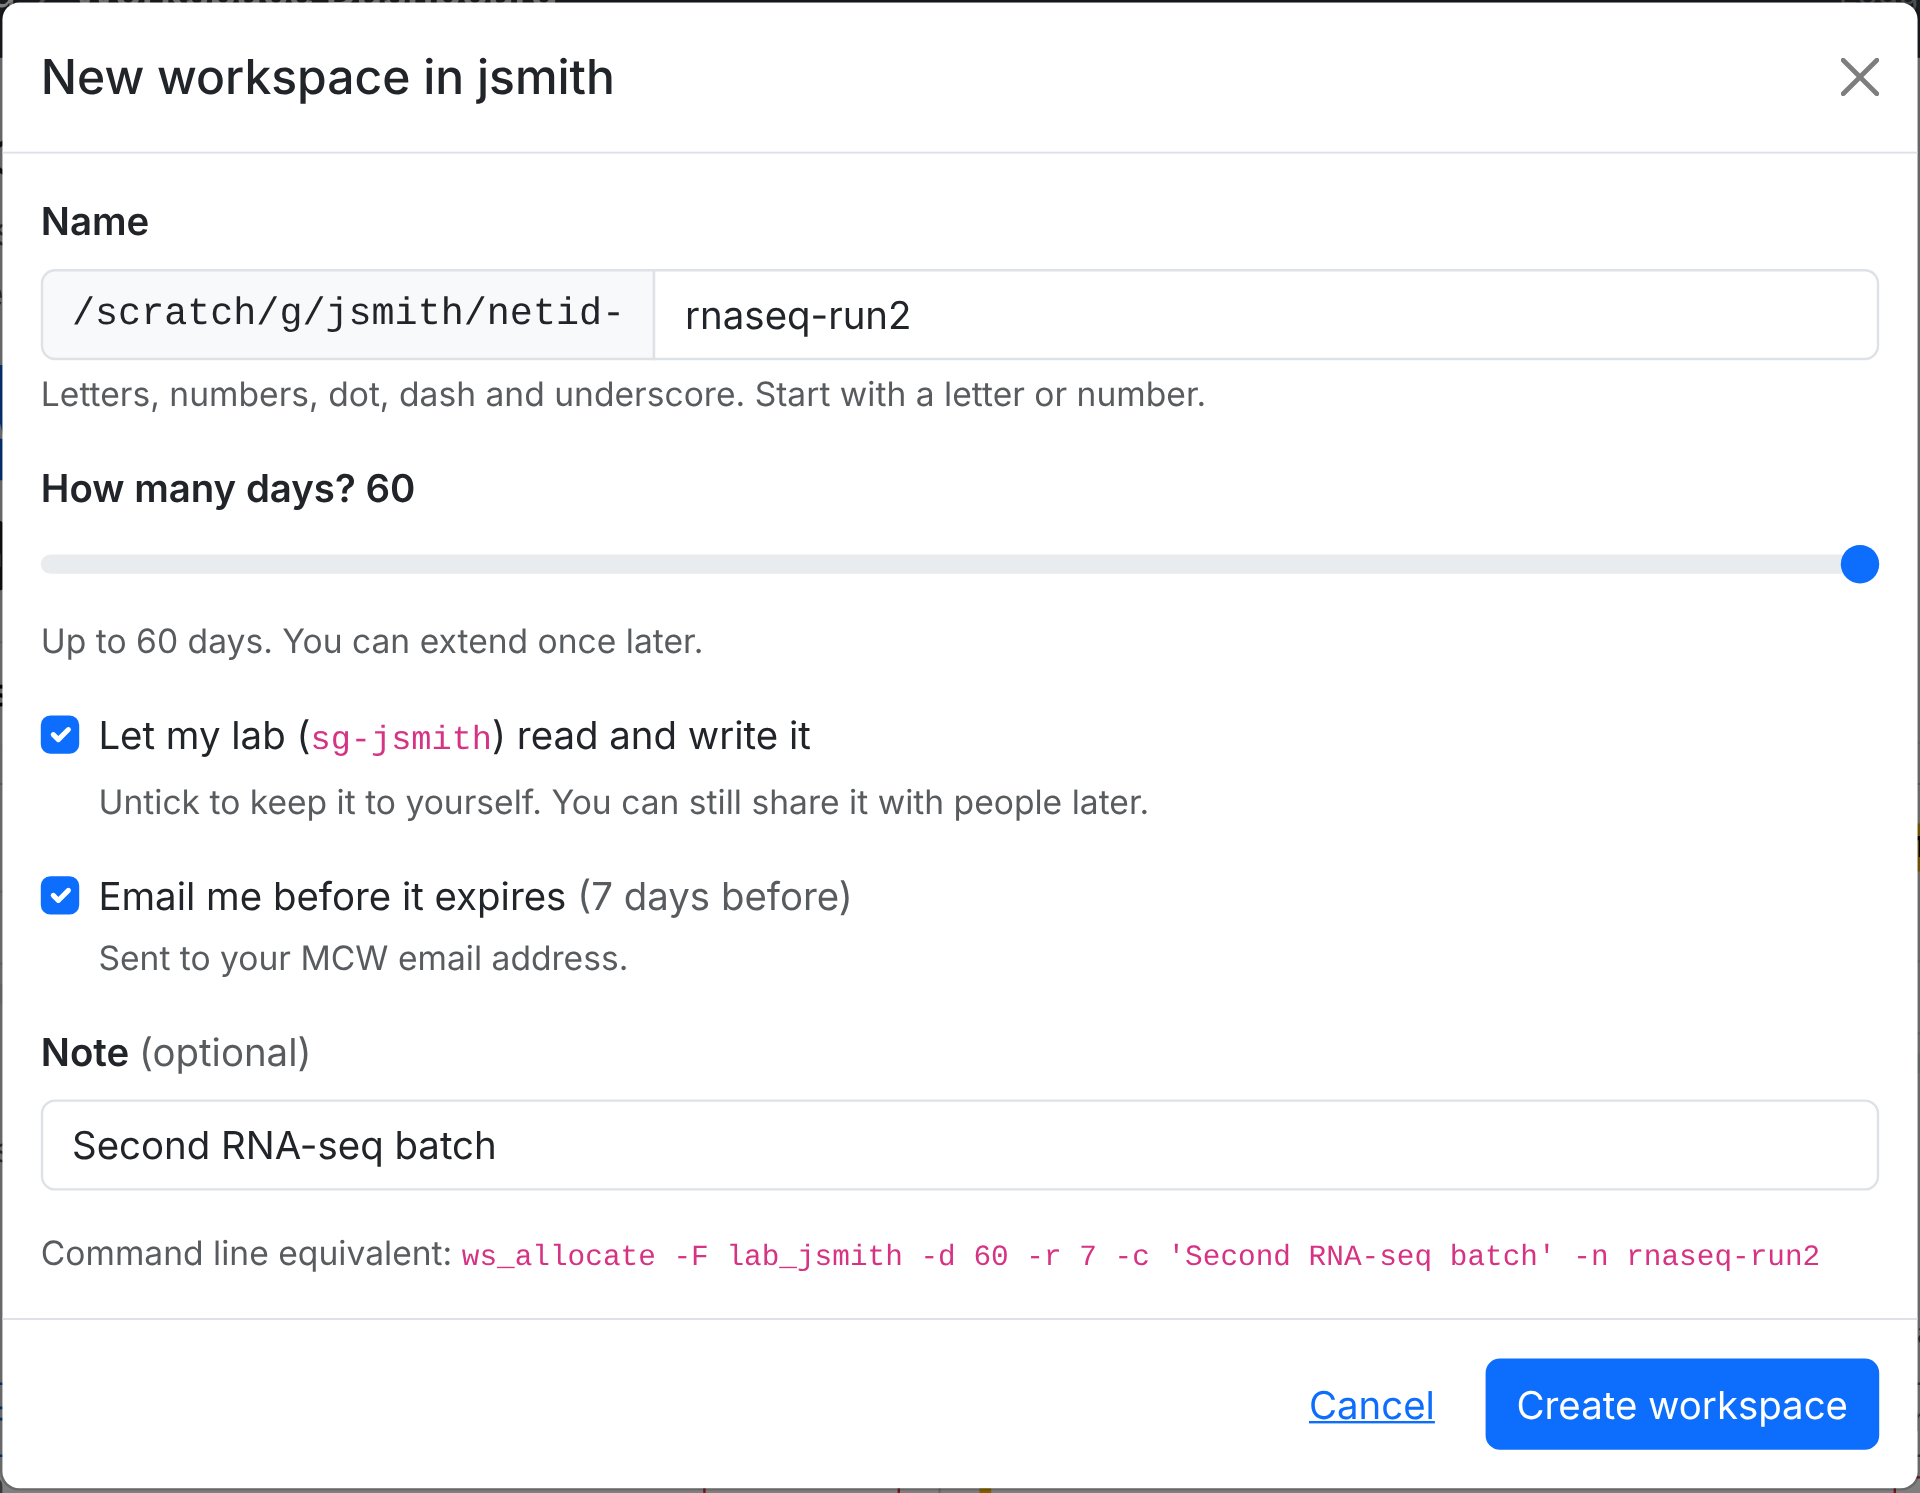
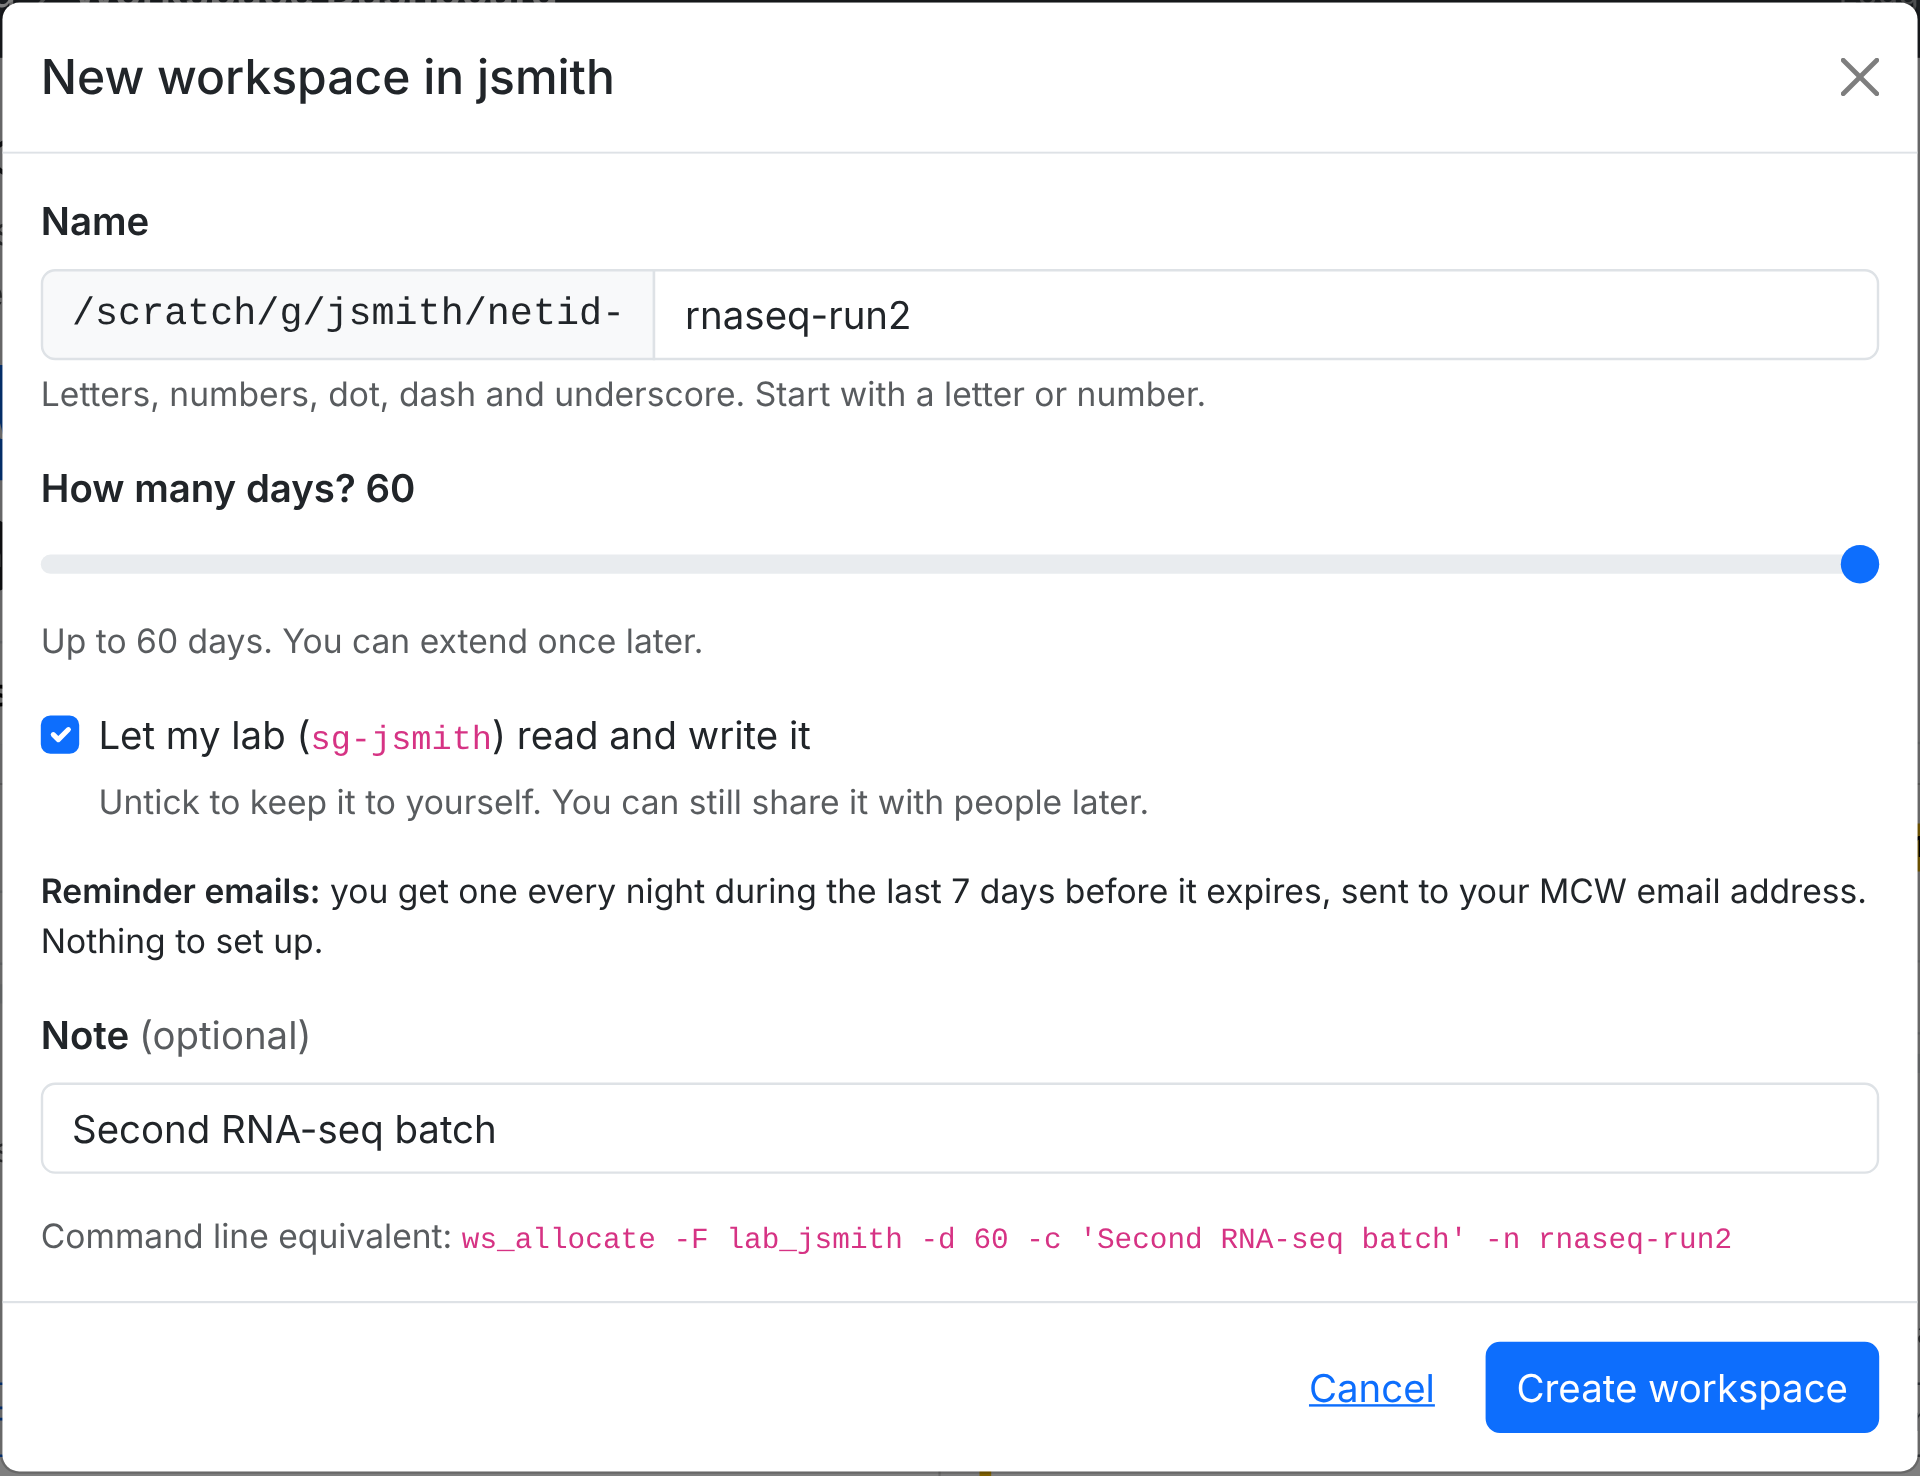
Docs: reminder emails are on by default for every workspace
ws_expirer now falls back to reminderdefault (7 days) when a workspace has
no -r, and the dashboard dropped its reminder checkbox. Replace the opt-in
wording with a reusable {{ ws_reminder_rule }} sentence, explain -r/-m as
optional overrides, and retake the New workspace screenshot.

Claude-Session: https://claude.ai/code/session_017F2mGigUQbgukqQC5wXf2s

diff --git a/docs/storage/workspaces.md b/docs/storage/workspaces.md
@@ -20,7 +20,7 @@ What you can do with it:
 
 - **See everything at a glance.** Each workspace is a card with its path, expiry date, and a color badge for the days left. On the last day the badge counts down the hours.
 - **Create a workspace** in one form: pick a name and the number of days, and choose whether your lab can read and write it.
-- **Get reminder emails.** Tick one box, and you get a reminder at your MCW email address every night, starting about a week before the workspace expires.
+- **Get reminder emails automatically.** Every workspace you create gets a reminder at your MCW email address every night during the last {{ ws_reminder_days }} days before it expires. There is nothing to tick.
 - **Extend with confidence.** The **Extend** button shows when you can extend. If it is too early, it shows the date you can, so you never waste a try.
 - **Share with people or groups** outside your lab, with read only or read and write access. See who has access, remove one person, or use **Remove everyone**, which shows the list of who will lose access before you confirm.
 - **See your lab's workspaces** on the **Lab workspaces** tab, and what your lab can do in each of yours: read and write, read only, or no access.
@@ -61,7 +61,7 @@ For step by step instructions and screenshots, see the [Workspace Dashboard guid
 - An extension counts from the day you run it, not from the old expiration date.
 - Asking for fewer days than the workspace has left shortens it. A shorter request does not use up your extension.
 - Your lab group can read and write your workspace by default.
-- Expiration reminder emails are off by default. You must turn them on when you create the workspace. See [Get an Expiration Reminder](#get-an-expiration-reminder).
+- {{ ws_reminder_rule }} See [Expiration Reminder Emails](#expiration-reminder-emails).
 - After a workspace expires or is released, there is a 14-day grace period. The data is kept, and you can restore it yourself. After the grace period it is permanently deleted.
 - During the grace period the data still counts against your lab's scratch quota.
 
@@ -100,18 +100,17 @@ To keep a workspace private (owner only) instead of shared with your lab, add `-
 ws_allocate --private myproject
 ```
 
-### Get an Expiration Reminder
+### Expiration Reminder Emails
 
-RCC does not send expiration reminders by default. To get an email before your workspace expires, add `-r` (days before expiration) and `-m` (your email address) when you create it:
+{{ ws_reminder_rule }} The email goes to your MCW email address and comes from <help-rcc@mcw.edu>. Each email names the workspace and its expiration date. Once you extend a workspace, the emails stop until the last {{ ws_reminder_days }} days before its new expiration date.
 
-```bash
-ws_allocate -r 7 -m username@mcw.edu myproject
-```
+You can change the defaults when you create the workspace:
 
-This example starts reminders 7 days before the workspace expires. From then on, a reminder is sent every night until the workspace expires or you extend it.
+- `-r` sets how many days before expiration the nightly emails start. For example, `ws_allocate -r 14 myproject` starts them 14 days before.
+- `-m` sends them to another email address. For example, `ws_allocate -m name@mcw.edu myproject`.
 
-!!! warning "You cannot add a reminder later without using your extension"
-    Reminders can only be set when you create a workspace, or when you extend it. Adding or changing a reminder on an existing workspace counts as your one extension. If you want to keep your extension, set the reminder when you create the workspace.
+!!! warning "Changing a reminder later uses your extension"
+    `-r` and `-m` can only be set when you create a workspace, or when you extend it. Changing them on an existing workspace counts as your one extension. You do not need them to get reminders.
 
 ## List Your Workspaces
 
@@ -166,7 +165,7 @@ ws_extend -F lab_pi_netid myproject 60
 - The new expiration date is the number of days you ask for, counted from today.
 - If you ask for fewer days than remain, you are asked to confirm, and the workspace is shortened. Your extension is not used.
 - If you ask for more than 60 days, you are asked whether to continue with 60. In a script or batch job there is no question, and 60 is used with a warning.
-- To add or change a reminder while extending, use `ws_allocate -x -r 7 -m username@mcw.edu myproject 60`. This uses your extension, so the [extension rule](#when-you-can-extend) applies.
+- To change when reminders start, or where they go, while extending, use `ws_allocate -x -r 14 -m name@mcw.edu myproject 60`. This uses your extension, so the [extension rule](#when-you-can-extend) applies.
 - Check `available extensions` in `ws_list` to see if you have an extension left. When it shows 0, the workspace cannot be extended again.
 - Anyone in your lab can extend a workspace that is shared with the lab, using the owner's username. For example, to extend `myproject` owned by `jdoe`: `ws_allocate -x -F lab_pi_netid -u jdoe myproject 60`. The same rules apply, and it uses the workspace's one extension.
 
@@ -344,7 +343,7 @@ See [Using Data in a Job](../cluster/jobs/storage-job.md) for more.
 | `available extensions : 0`                                 | The workspace was already extended and cannot be extended again. Copy your data to group storage, or create a new workspace.                                                                                                 |
 | Extension did not give you more time                       | An extension counts from today. If you asked for fewer days than remained, the workspace was shortened.                                                                                                                      |
 | ws_extend says the workspace can not be extended yet       | It is too early: less than {{ ws_extend_pct }}% of its lifetime has passed and more than {{ ws_extend_window }} days remain. Run the command again on or after the date it shows. Your extension was not used.               |
-| You did not get an expiration email                        | Reminders are off by default. Set `-r` and `-m` when you create the workspace. See [Get an Expiration Reminder](#get-an-expiration-reminder).                                                                                |
+| You did not get an expiration email                        | Emails start {{ ws_reminder_days }} days before expiration, from <help-rcc@mcw.edu>. Check your junk folder. If you used `-m`, `ws_list -v` shows the address. See [Reminder Emails](#expiration-reminder-emails).           |
 | Cannot create files in `/scratch/g/pi_netid`               | Create a workspace with `ws_allocate`, and save files there.                                                                                                                                                                 |
 | A workspace expired or was released and you need the data  | Restore it within 14 days. See [Restore a Workspace](#restore-a-workspace).                                                                                                                                                  |
 | `ws_restore` does not work                                 | Create the new workspace first. Then copy the old name exactly as `ws_restore -l` shows it. Do not use the name from `ws_list`. Answer the quick question that appears.                                                      |

diff --git a/docs/storage/workspace-dashboard.md b/docs/storage/workspace-dashboard.md
@@ -55,14 +55,13 @@ The buttons on the card:
 2. Type a **Name**, such as `rnaseq-run2`. The full path is shown to the left of the box. Use letters, numbers, dots, dashes, and underscores.
 3. Choose **How many days**, up to 60.
 4. Leave **Let my lab read and write it** ticked to share it with your lab, which is the usual choice. Untick it to keep the workspace private. You can still share a private workspace with people later.
-5. Optional: tick **Email me before it expires**. Starting the number of days shown next to the box (usually 7) before the workspace expires, you get a reminder at your MCW email address every night until it expires. RCC does not send reminders unless you tick this box.
-6. Optional: add a **Note** to remind you what the workspace is for. It is shown on the card.
-7. Click **Create workspace**.
+5. Optional: add a **Note** to remind you what the workspace is for. It is shown on the card.
+6. Click **Create workspace**.
 
 ![New workspace form](../_static/img/wsd-new.png){ width="560" }
 
-!!! note "Set the reminder now"
-    A reminder can only be added for free when you create a workspace. Adding one later uses the workspace's one extension. See [Get an Expiration Reminder](workspaces.md#get-an-expiration-reminder).
+!!! note "Reminder emails are automatic"
+    {{ ws_reminder_rule }} The form shows how many days before expiration they start, and they go to your MCW email address. See [Expiration Reminder Emails](workspaces.md#expiration-reminder-emails).
 
 ## Extend a Workspace
 

diff --git a/docs/cluster/access/ondemand.md b/docs/cluster/access/ondemand.md
@@ -72,7 +72,7 @@ The **Workspace Dashboard** is the easy way to manage your [scratch workspaces](
 
 [Open the Workspace Dashboard](https://ondemand.rcc.mcw.edu/pun/sys/workspace-dashboard){ .md-button .md-button--primary target="_blank" rel="noopener" }
 
-Each workspace is shown as a card with its path, expiry date, and days left. You can create, extend, share, release, and restore workspaces, turn on expiry reminder emails, see who each workspace is shared with, and find workspaces others shared with you. As you fill in a form, the dashboard shows the matching `ws_*` command, so you can learn the command line as you go. See the [Workspace Dashboard guide](../../storage/workspace-dashboard.md).
+Each workspace is shown as a card with its path, expiry date, and days left. You can create, extend, share, release, and restore workspaces, see who each workspace is shared with, and find workspaces others shared with you. As you fill in a form, the dashboard shows the matching `ws_*` command, so you can learn the command line as you go. See the [Workspace Dashboard guide](../../storage/workspace-dashboard.md).
 
 ## Open Job Composer
 

diff --git a/docs/storage/rcc-storage.md b/docs/storage/rcc-storage.md
@@ -45,7 +45,7 @@ Scratch storage is intended for temporary job files. Every group has a directory
 
 Workspaces expire automatically 60 days after creation (or after their extension). When a workspace expires or you release it, it enters a 14-day grace period during which you can restore it. After that, the data is permanently deleted. Data in a workspace in its grace period still counts against your lab's scratch quota.
 
-RCC does not send expiration reminders by default. To be reminded, set a reminder when you [create the workspace](workspaces.md#get-an-expiration-reminder). If the scratch file system becomes full, RCC admins may need to delete files without notice, so please release workspaces you no longer need.
+RCC emails you every night during the last {{ ws_reminder_days }} days before a workspace expires. See [Expiration Reminder Emails](workspaces.md#expiration-reminder-emails). If the scratch file system becomes full, RCC admins may need to delete files without notice, so please release workspaces you no longer need.
 
 !!! warning "Scratch storage is for jobs, not projects."
 
